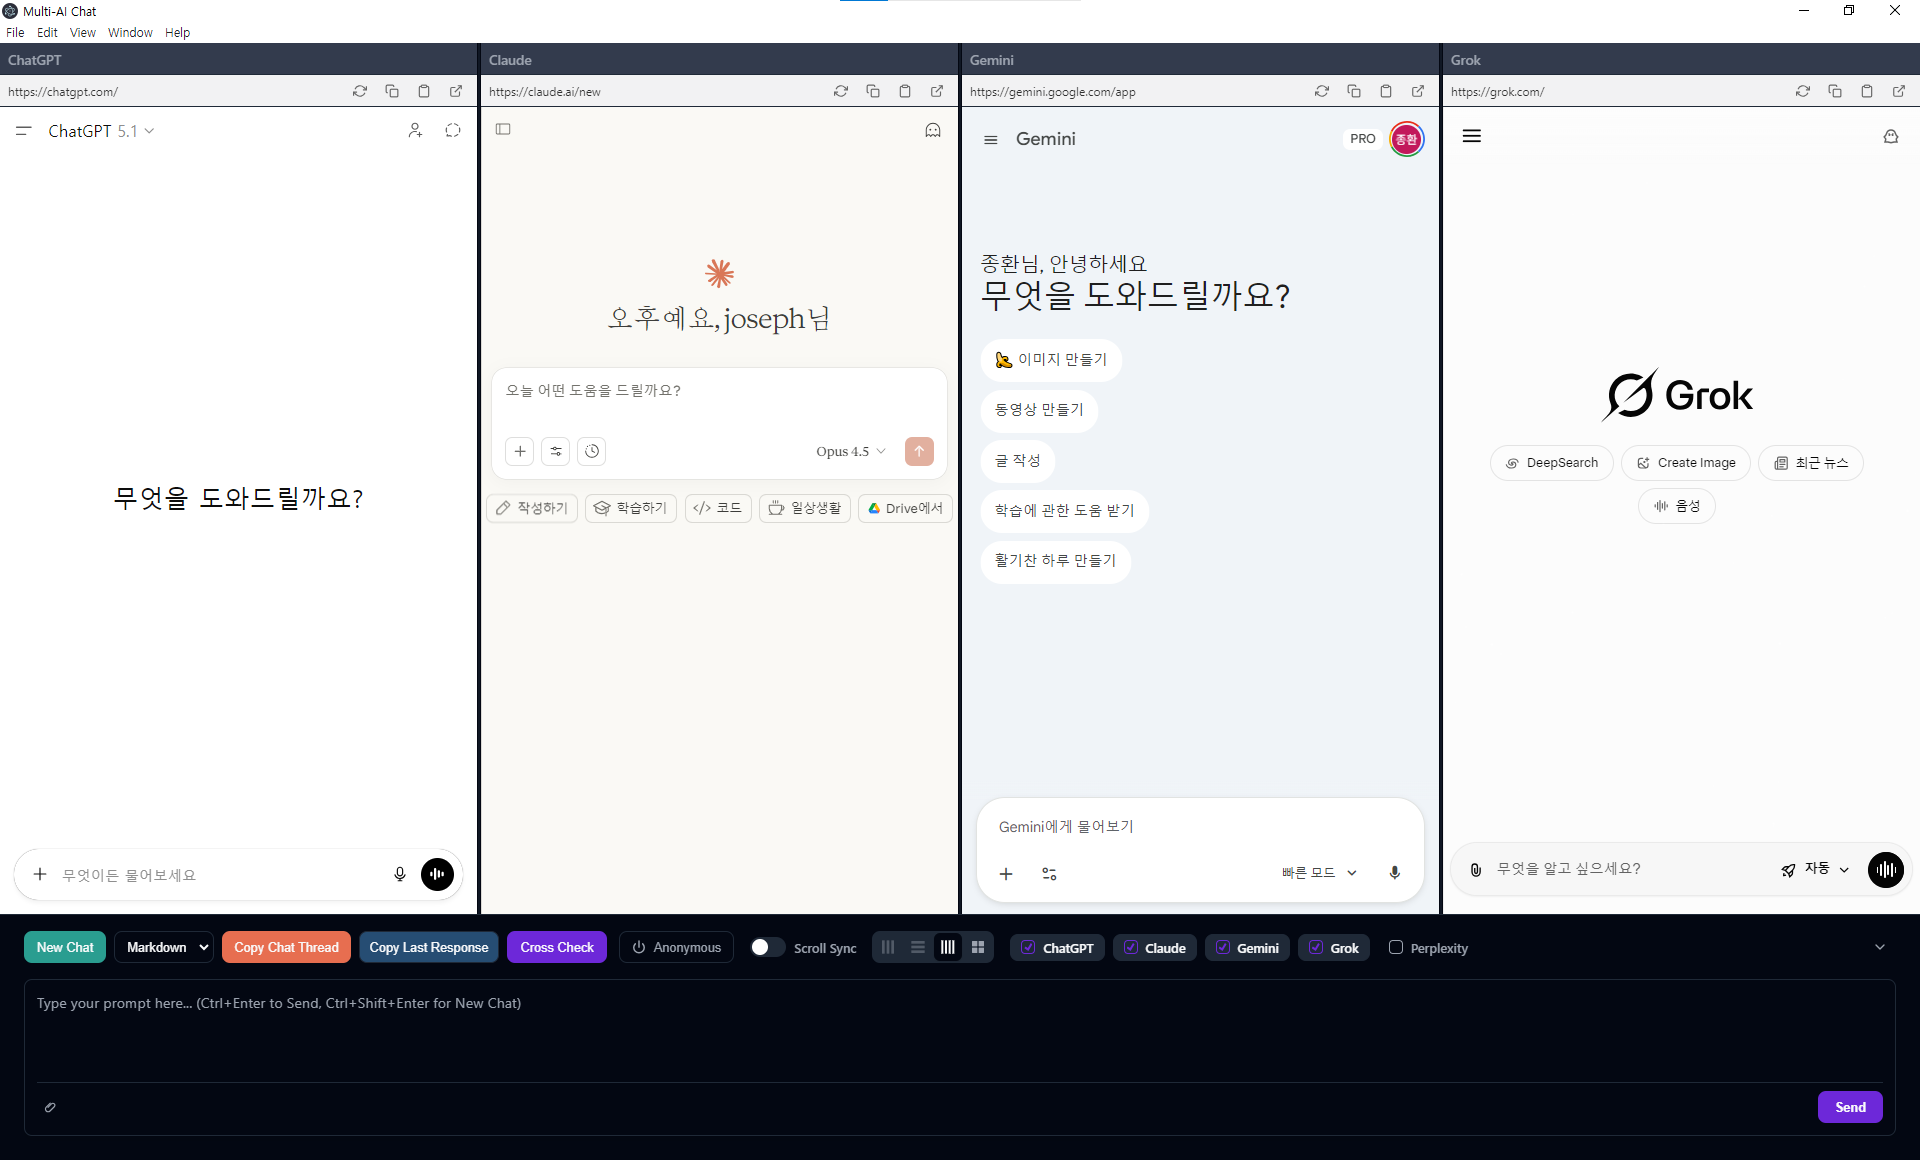
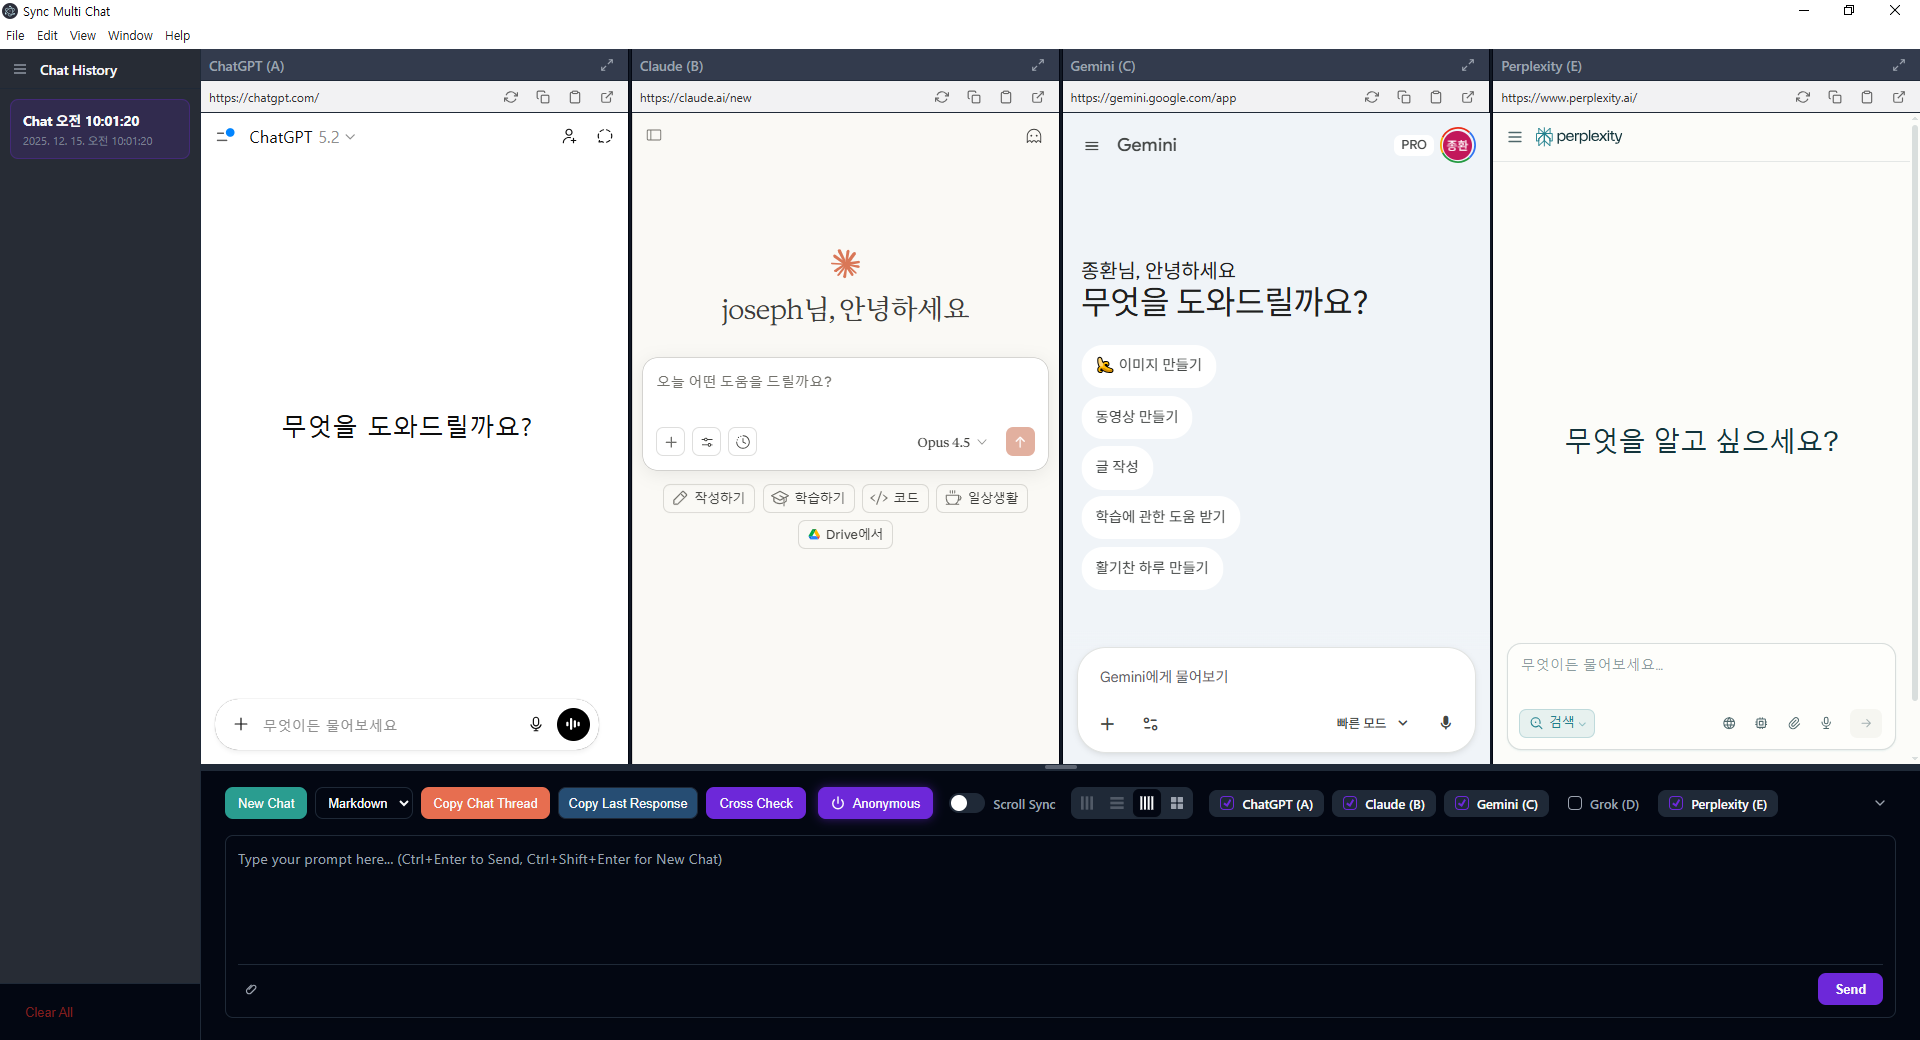
feat: v0.5.5 sidebar chat history funcation added

diff --git a/src/renderer/renderer.js b/src/renderer/renderer.js
@@ -1007,6 +1007,8 @@ for (const [service, toggle] of Object.entries(toggles)) {
 // URL Bar: Listen for URL changes from main process (URLBAR-003)
 // Also save session on URL changes for history persistence
 let urlChangeDebounceTimer = null;
+let isSessionLoading = false; // Flag to prevent URL saves during session loading
+
 if (window.electronAPI.onWebviewUrlChanged) {
     window.electronAPI.onWebviewUrlChanged(({ service, url }) => {
         const urlTextEl = document.getElementById(`url-text-${service}`);
@@ -1016,6 +1018,12 @@ if (window.electronAPI.onWebviewUrlChanged) {
             urlTextEl.textContent = displayUrl;
             urlTextEl.dataset.url = url; // Store full URL for copy/chrome buttons
             urlTextEl.title = url; // Show full URL on hover
+
+            // Skip saving during session loading to prevent race conditions
+            if (isSessionLoading) {
+                console.log('[History] Skipping URL save during session loading');
+                return;
+            }
 
             // Debounced save on URL change (only if session exists)
             if (typeof currentSessionId !== 'undefined' && currentSessionId) {
@@ -2343,10 +2351,25 @@ async function saveCurrentSession() {
     }
 }
 
-function loadSession(session) {
+async function loadSession(session) {
     if (!session) return;
 
     console.log('[History] Switching to session:', session.id);
+
+    // Set loading flag to prevent URL change saves during transition
+    isSessionLoading = true;
+
+    // Save current session before switching (if different session)
+    if (currentSessionId && currentSessionId !== session.id) {
+        // Cancel any pending debounce timer to prevent race conditions
+        if (urlChangeDebounceTimer) {
+            clearTimeout(urlChangeDebounceTimer);
+            urlChangeDebounceTimer = null;
+        }
+        // Synchronously save current session before switching
+        await saveCurrentSession();
+        console.log('[History] Saved previous session before switching');
+    }
 
     // Update currentSessionId and persist it
     currentSessionId = session.id;
@@ -2406,7 +2429,12 @@ function loadSession(session) {
                     window.electronAPI.navigateToUrl(service, url);
                 }
             });
+            // Clear loading flag after navigation completes
+            isSessionLoading = false;
         }, 500); // Delay to allow services to initialize
+    } else {
+        // Clear loading flag if no URLs to navigate
+        isSessionLoading = false;
     }
 
     // Close sidebar on mobile/small screens? Optional.
@@ -2453,6 +2481,11 @@ function setupResizeHandle() {
     handle.addEventListener('mousedown', initDrag);
 
     function initDrag(e) {
+        // If currently collapsed, expand first so input form becomes visible
+        if (isPromptCollapsed) {
+            setPromptCollapsed(false);
+        }
+
         startY = e.clientY;
         startHeight = inputContainer.offsetHeight;
         document.documentElement.addEventListener('mousemove', doDrag, false);

diff --git a/README.md b/README.md
@@ -11,7 +11,8 @@ It allows users to send a single prompt to **ChatGPT**, **Claude**, **Gemini**, 
 -   **Multi-Pane Interface**: View and interact with up to 4 AI services (ChatGPT, Claude, Gemini, Grok, Perplexity) simultaneously in a grid layout.
 -   **Simultaneous Prompting**: Send a message from a central "Master Input" to all active AI services instantly.
 -   **Broad Service Support**: Supports ChatGPT, Claude, Gemini, Grok (xAI), and Perplexity.
--   **Chat History Management**: "New Chat" button to reset sessions across all services at once.
+-   **Chat History Management**: Save and restore entire chat sessions including active services, layouts, and URLs.
+-   **Conversation History**: Access past sessions from the sidebar and restore them instantly.
 -   **Zoom & Layout Controls**: Adjust text size and switch between 2x2, 1x3, 1x4, and Maximize layouts.
 -   **Prompt History**: Save and reuse frequently used prompts.
 -   **Cross Check**: Iterate on your prompts by sending an AI's response as a new prompt to others.
@@ -24,13 +25,13 @@ It allows users to send a single prompt to **ChatGPT**, **Claude**, **Gemini**, 
 
 ## Version
 
--   **Current Version**: v0.5.4
+-   **Current Version**: v0.5.5
 
 ## Installation
 
 This application is distributed as a portable executable for Windows (`.exe`). No complex installation is required.
 
-1.  Download the latest release zip file (e.g., `Sync Multi Chat-win32-x64-v0.5.4.zip`).
+1.  Download the latest release zip file (e.g., `Sync Multi Chat-win32-x64-v0.5.5.zip`).
 2.  Extract the zip file to a location of your choice.
 3.  Run `Sync Multi Chat.exe` inside the extracted folder.
 
@@ -131,13 +132,13 @@ This application is distributed as a portable executable for Windows (`.exe`). N
 -   [x] Support for additional services (Grok, Perplexity)
 -   [x] Advanced Layouts (2x2, Resizable)
 -   [x] File Upload (Drag & Drop, Paste, Multi-service) *Grok temporarily disabled*
+-   [x] Local conversation history
 -   Support for DeepSeek, Copilot
 -   Response comparison tools (Diff view)
 -   Response copying/saving features (Enhanced)
 
 ### Phase 3 (Future)
 -   Prompt templates
--   Local conversation history
 -   Response quality analytics
 
 ---

diff --git a/RELEASE_NOTES.md b/RELEASE_NOTES.md
@@ -1,5 +1,20 @@
 # Release Notes
 
+## v0.5.5 (2025-12-15)
+
+### ✨ New Features
+*   **Conversation History**:
+    *   **Sidebar Interface**: New collapsible sidebar on the left for easy history access.
+    *   **Auto-Save**: Automatically saves your chat session including active services, layouts, and URLs.
+    *   **Session Restore**: Click any history item to instantly restore your exact working environment.
+    *   **History Management**: Delete individual sessions or clear all history with a single click.
+
+### ⬆ Improvements
+*   **Performance**: Optimized session loading and saving with asynchronous IndexedDB operations.
+*   **Responsiveness**: Improved sidebar animation and layout handling when toggling history view.
+
+---
+
 ## v0.5.4 (2025-12-09)
 
 ### ✨ New Features
